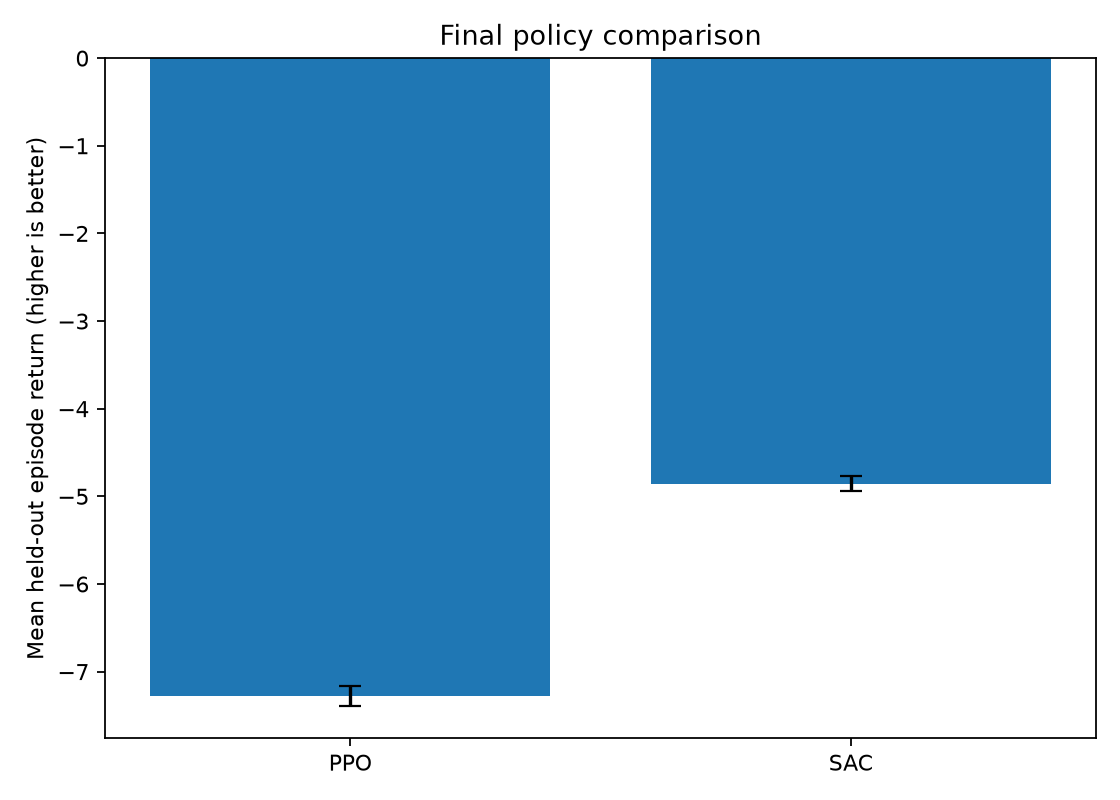
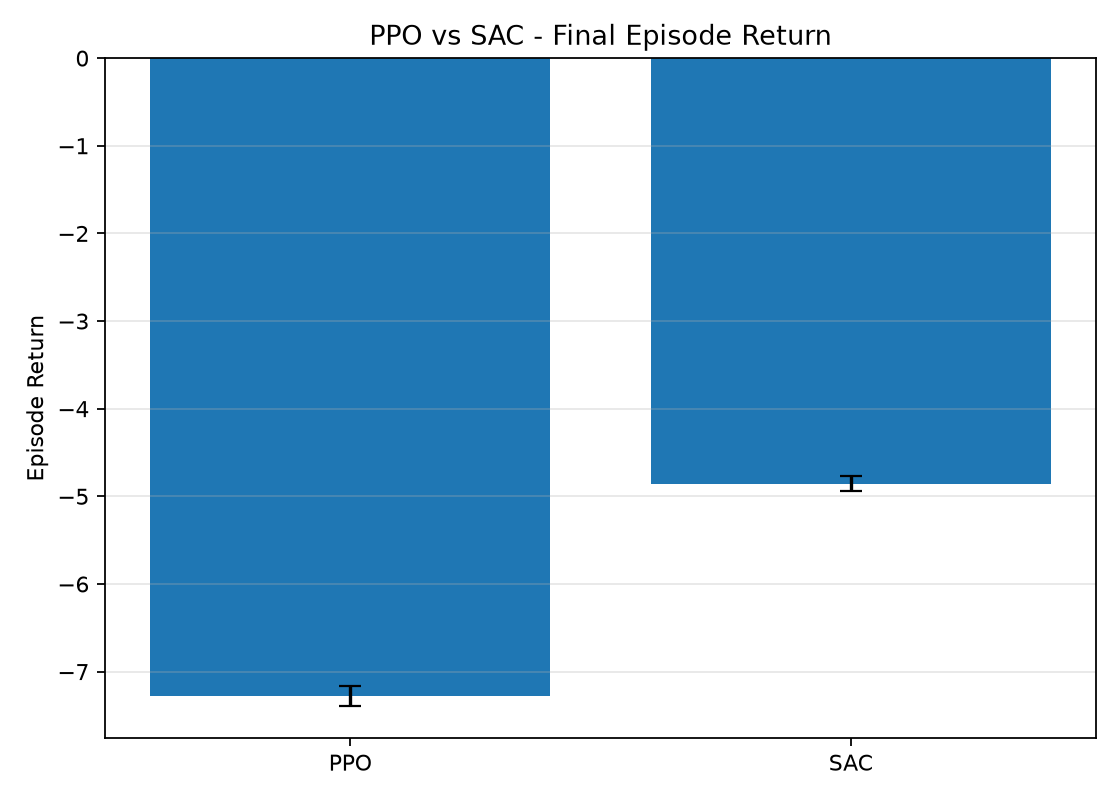
figures updated

diff --git a/scripts/plot_training.py b/scripts/plot_training.py
@@ -34,61 +34,19 @@ def main():
                 ax.fill_between(agg.index, agg["mean"] - sd, agg["mean"] + sd,
                                 alpha=0.2)
         ax.set(xlabel="Environment training steps", ylabel=ylabel)
+
+        # Increase font size of x and y axis labels
+        ax.set_xlabel("Environment training steps", fontsize=16)
+        ax.set_ylabel(ylabel, fontsize=16)
+
+        # Increase font size of axis numbers (tick labels)
+        ax.tick_params(axis="both", labelsize=12)
         ax.grid(alpha=0.3)
-        ax.legend()
+        ax.legend(fontsize=16)
         fig.tight_layout()
         fig.savefig(plots / f"learning_{metric}.png", dpi=160)
         plt.close(fig)
 
-    # final = results / "final_evaluation.csv"
-    # if final.exists():
-    #     ev = pd.read_csv(final)
-    #     per_training_seed = ev.groupby(["algorithm", "seed"], as_index=False)[METRICS].mean()
-    #     summaries = per_training_seed.groupby("algorithm")[METRICS].agg(["mean", "std"])
-    #     summaries.to_csv(results / "final_summary.csv")
-    #     print("Final evaluation (mean ± SD across training seeds; NaN SD if one seed):")
-    #     print(summaries.to_string())
-    #
-    #     fig, ax = plt.subplots(figsize=(7, 5))
-    #     means = per_training_seed.groupby("algorithm")["return"].mean()
-    #
-    #     for metric, ylabel in metrics.items():
-    #         means = per_training_seed.groupby("algorithm")[metric].mean()
-    #         stds = per_training_seed.groupby("algorithm")[metric].std().fillna(0)
-    #
-    #         fig, ax = plt.subplots(figsize=(7, 5))
-    #
-    #         ax.bar(
-    #             means.index.str.upper(),
-    #             means.values,
-    #             yerr=stds.values,
-    #             capsize=5,
-    #         )
-    #
-    #         ax.set(
-    #             ylabel=ylabel,
-    #             title=f"PPO vs SAC - Final {ylabel}",
-    #         )
-    #
-    #         ax.grid(axis="y", alpha=0.3)
-    #
-    #         fig.tight_layout()
-    #
-    #         fig.savefig(
-    #             plots / f"final_{metric}.png",
-    #             dpi=160,
-    #         )
-    #
-    #         plt.close(fig)
-
-        #
-        # errs = per_training_seed.groupby("algorithm")["return"].std().fillna(0)
-        # ax.bar(means.index.str.upper(), means.values, yerr=errs.values, capsize=5)
-        # ax.set(ylabel="Mean held-out episode return (higher is better)",
-        #        title="Final policy comparison")
-        # fig.tight_layout()
-        # fig.savefig(plots / "final_return.png", dpi=160)
-        # plt.close(fig)
     print(f"Plots saved to {plots}")
 
 

diff --git a/scripts/plot_eval.py b/scripts/plot_eval.py
@@ -84,8 +84,8 @@ for metric, ylabel in metrics.items():
     ax.set_xticks([0, 1])
     ax.set_xticklabels(["PPO", "SAC"])
 
-    ax.set_ylabel(ylabel)
-    ax.set_title(f"PPO vs SAC — {ylabel}")
+    ax.set_ylabel(ylabel, fontsize=16)
+    # ax.set_title(f"PPO vs SAC — {ylabel}")
 
     ax.grid(axis="y", alpha=0.3)
     ax.legend()
@@ -118,12 +118,13 @@ for alg in ["ppo", "sac"]:
             (row["mean_distance"], row["mean_control_cost"]),
             xytext=(6, 6),
             textcoords="offset points",
+            fontsize=16,
         )
 
 ax.set_xlabel("Mean Distance to Target (lower is better)")
 ax.set_ylabel("Mean Control Cost (lower is better)")
 
-ax.set_title("PPO vs SAC — Reaching Accuracy vs Control Cost")
+# ax.set_title("PPO vs SAC — Reaching Accuracy vs Control Cost")
 
 ax.legend()
 ax.grid(alpha=0.3)

diff --git a/scripts/train.py b/scripts/train.py
@@ -12,7 +12,7 @@ def main():
     p = argparse.ArgumentParser()
     p.add_argument("--alg", choices=["ppo", "sac", "both"], default="both")
     p.add_argument("--steps", type=int, default=100_000)
-    p.add_argument("--eval-freq", type=int, default=10_000)
+    p.add_argument("--eval-freq", type=int, default=5_000)
     p.add_argument("--seeds", type=int, nargs="+", default=[0])
     p.add_argument("--out", type=Path, default=Path("."))
     args = p.parse_args()

diff --git a/README.md b/README.md
@@ -262,10 +262,7 @@ greater control effort with differnce 0.0061.
 </p>
 
 
-```bash
-python scripts/watch.py --alg ppo --seed 0
-python scripts/watch.py --alg sac --seed 0
-```
+
 
 Each command plays one deterministic 50-step episode, 
 then closes the viewer. For headless systems, omit this step.
